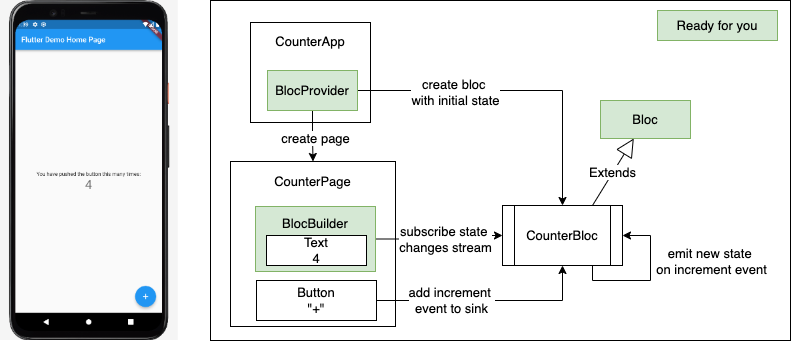
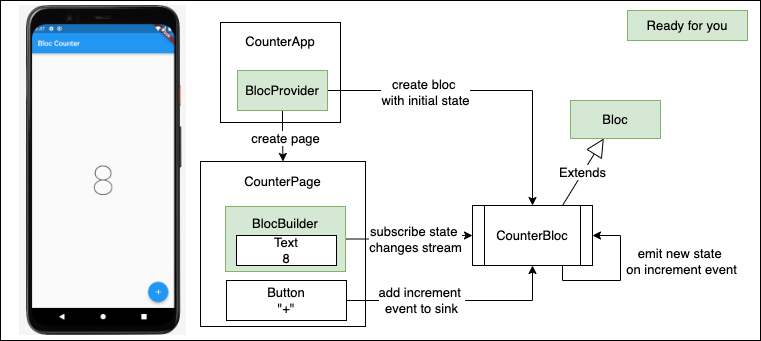
study slides

diff --git a/goingmobile/index.html b/goingmobile/index.html
@@ -455,7 +455,7 @@
 					<textarea data-template>
 				#### [Example: Counter app](https://gist.github.com/felangel/fc8230776591f0297e6a1d1b5ef46a6c)
 
-				<img alt="counter bloc app" src="images/counter_bloc_example_ui.png" width="70%">
+				<img alt="counter bloc app" src="images/counter_bloc_example_ui.png" width="80%">
 
 				"+" adds increment event to sink, counter is rendered when state is received from stream.
 				[BlocProvider](https://pub.dev/documentation/flutter_bloc/latest/flutter_bloc/BlocProvider-class.html) controls lifecycle of bloc instance.
@@ -481,8 +481,8 @@
 				  }
 				}
 				```
-				[Bloc 7.2.0 has on < event > () registration method.](https://verygood.ventures/blog/how-to-use-bloc-with-streams-and-concurrency)
-				Here we register handling of "Increment" event and define logic for it as single expression lambda.
+				[Bloc 7.2.0 provides < event > () registration method.](https://verygood.ventures/blog/how-to-use-bloc-with-streams-and-concurrency)
+					Register handling of "Increment" event and define logic as single expression lambda.
 
 						</textarea>
 				</section>
@@ -494,19 +494,20 @@
 				void main() {
 				  group('CounterBloc', () {
 					test('initial state is 0', () {
-					  expect(CounterBloc().state, equals(0));
+					  expect(CounterBloc().state, 0);
 					});
 
 					blocTest<CounterBloc, int>(
 					  'emits [1] when increment is called',
 					  build: CounterBloc.new,
 					  act: (bloc) => bloc.add(Increment()),
-					  expect: () => [equals(1)],
+					  expect: () => [1],
 					);
 				  });
 				}
 				```
 				[bloc_test](https://pub.dev/packages/bloc_test) allows testing reactive code in isolation.
+				Mocking, setup, delays, etc. are supported but not needed in this example.
 
 						</textarea>
 				</section>
@@ -543,7 +544,7 @@
 				  @override
 				  Widget build(BuildContext context) {
 					return Scaffold(
-					  appBar: AppBar(title: const Text('Counter')),
+					  appBar: AppBar(title: const Text('Bloc Counter')),
 					  body: Center(
 						child: BlocBuilder<CounterBloc, int>(
 						  builder: (context, count) {
